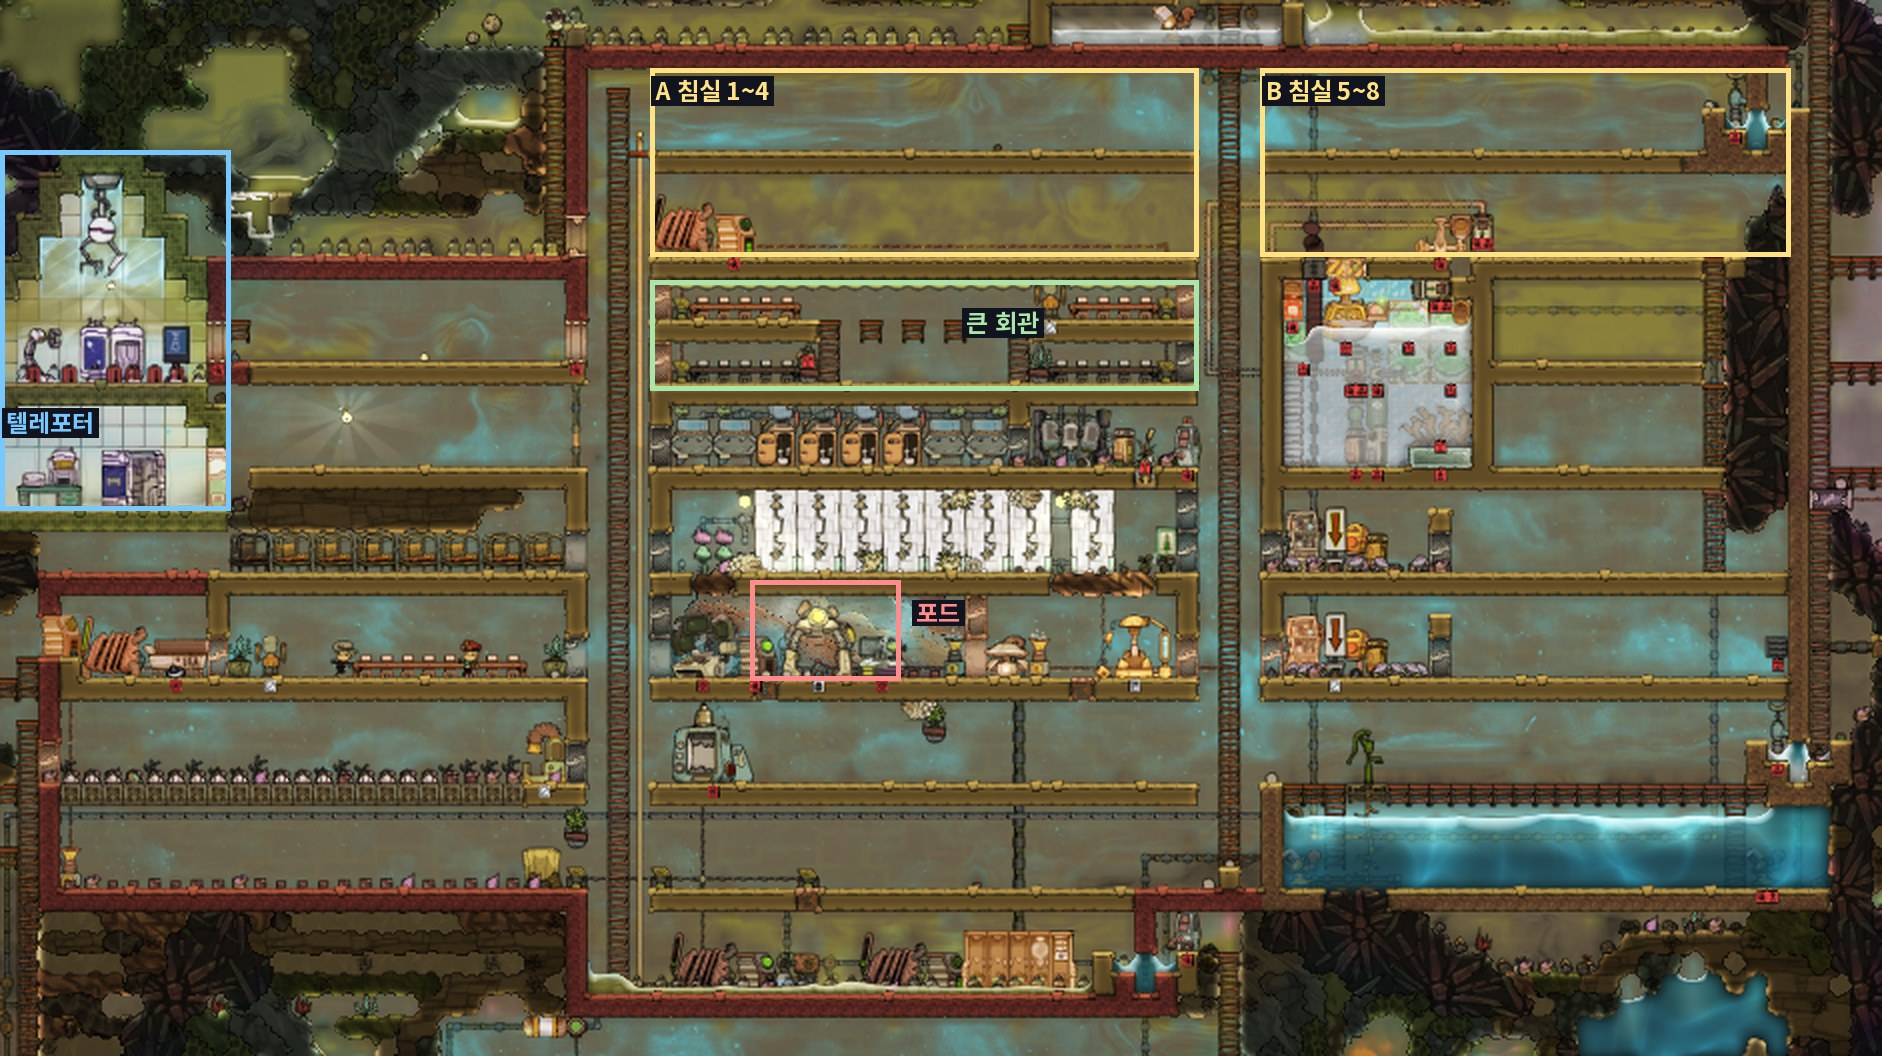
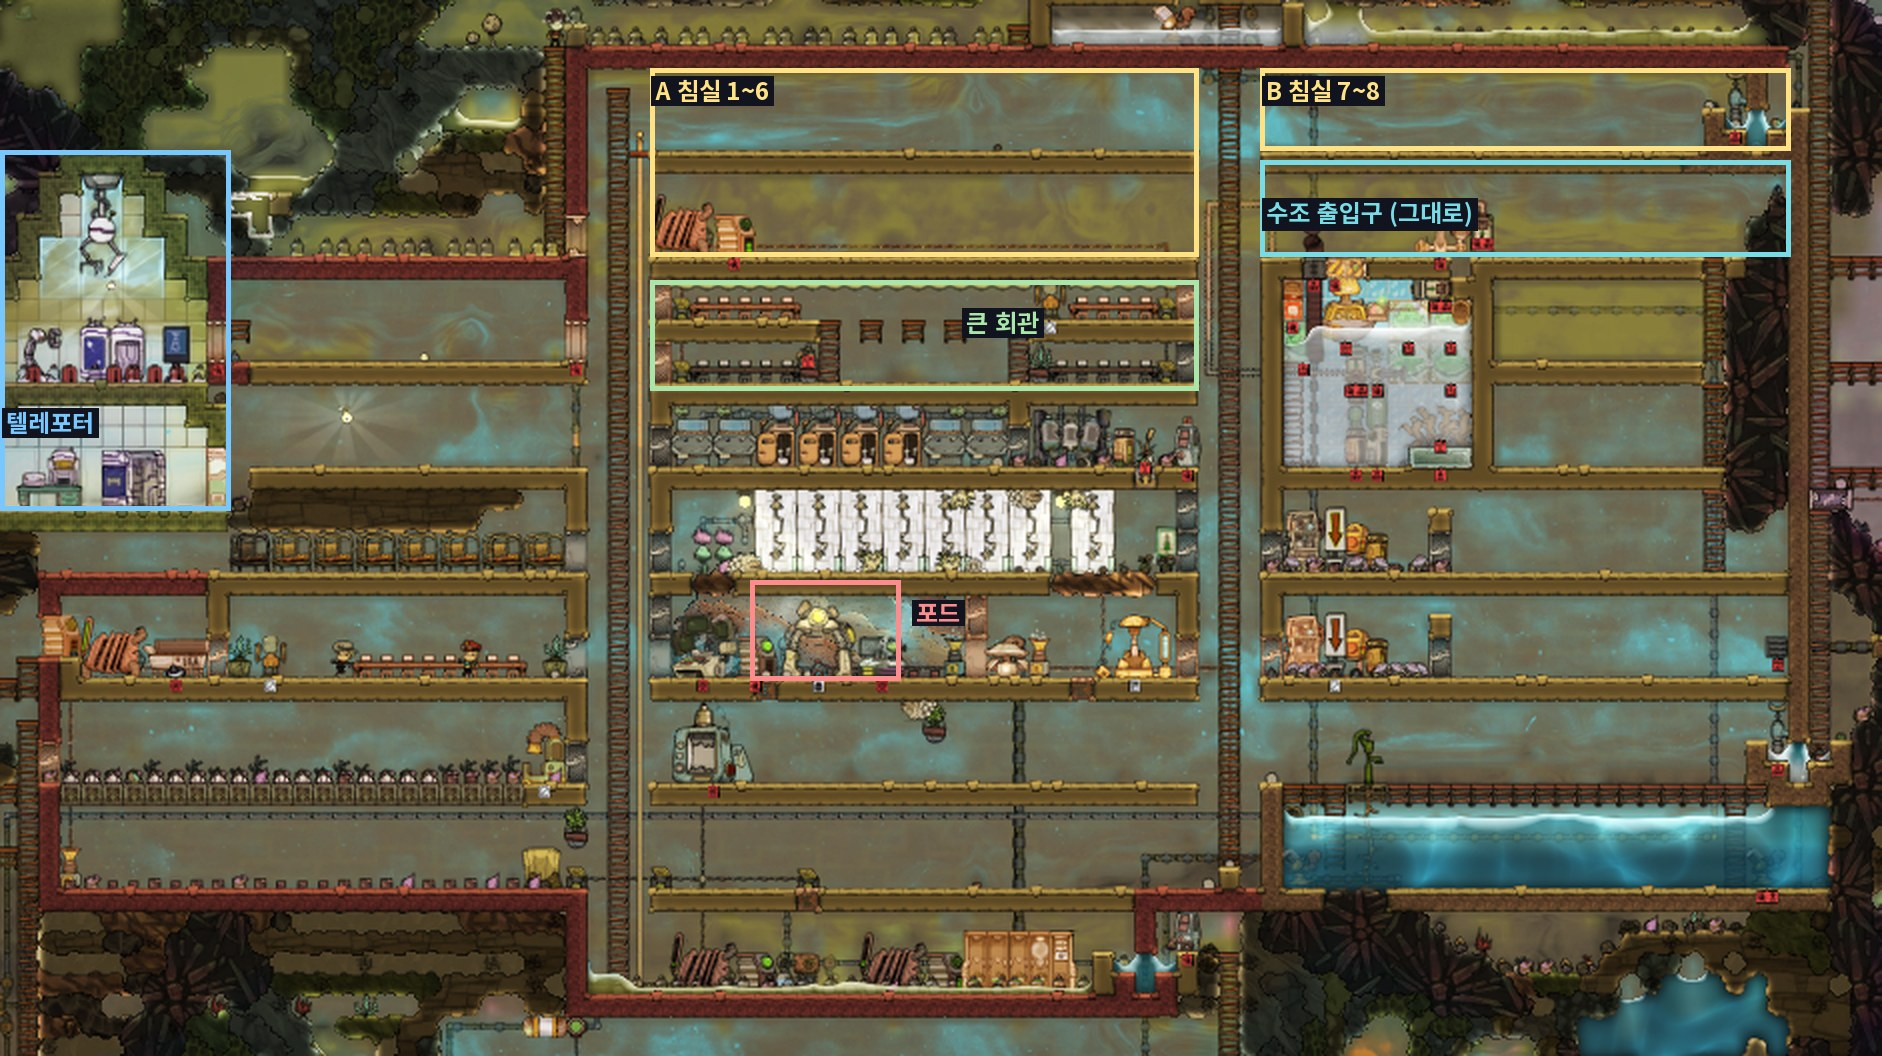
사례 1-3: 스크린샷 구역 표시를 새 배치에 맞춤
Claude-Session: https://claude.ai/code/session_01D1TBnQhyTd2kDAK1oaF46g

Changed region(s): [[0.6472, 0.125, 0.9554, 0.25]]

diff --git a/guide/case-1-perse-bedrooms.md b/guide/case-1-perse-bedrooms.md
@@ -25,7 +25,7 @@ description: 텔레포터 폐허가 가이드의 서쪽 침실 블록 자리를 
 
 대신 **기지 맨 위 2개 층**(단열 지붕 바로 아래)을 씁니다. 왼쪽(큰 회관 위)은 수동 발전기 하나뿐이고, 오른쪽은 아래층이 **염수 수조 출입구**라 위층만 씁니다.
 
-{% include shot.html src="case1-perse-160-bedrooms.jpg" caption="사이클 160 본진. 노란 A·B가 침실을 넣을 맨 위 2개 층 (B는 위층만, 아래층은 수조 출입구), 그 바로 아래 초록이 큰 회관. 파랑이 텔레포터 폐허, 빨강이 포드. 칸 수는 스크린샷에서 어림한 값." %}
+{% include shot.html src="case1-perse-160-bedrooms.jpg" caption="사이클 160 본진. 노란 A(두 층)·B(위층)가 침실 자리, 하늘색은 그대로 두는 수조 출입구 층, 그 바로 아래 초록이 큰 회관. 파랑이 텔레포터 폐허, 빨강이 포드. 칸 수는 스크린샷에서 어림한 값." %}
 
 ## 배치: 6×4 침실을 문으로 이어 붙이기
 
